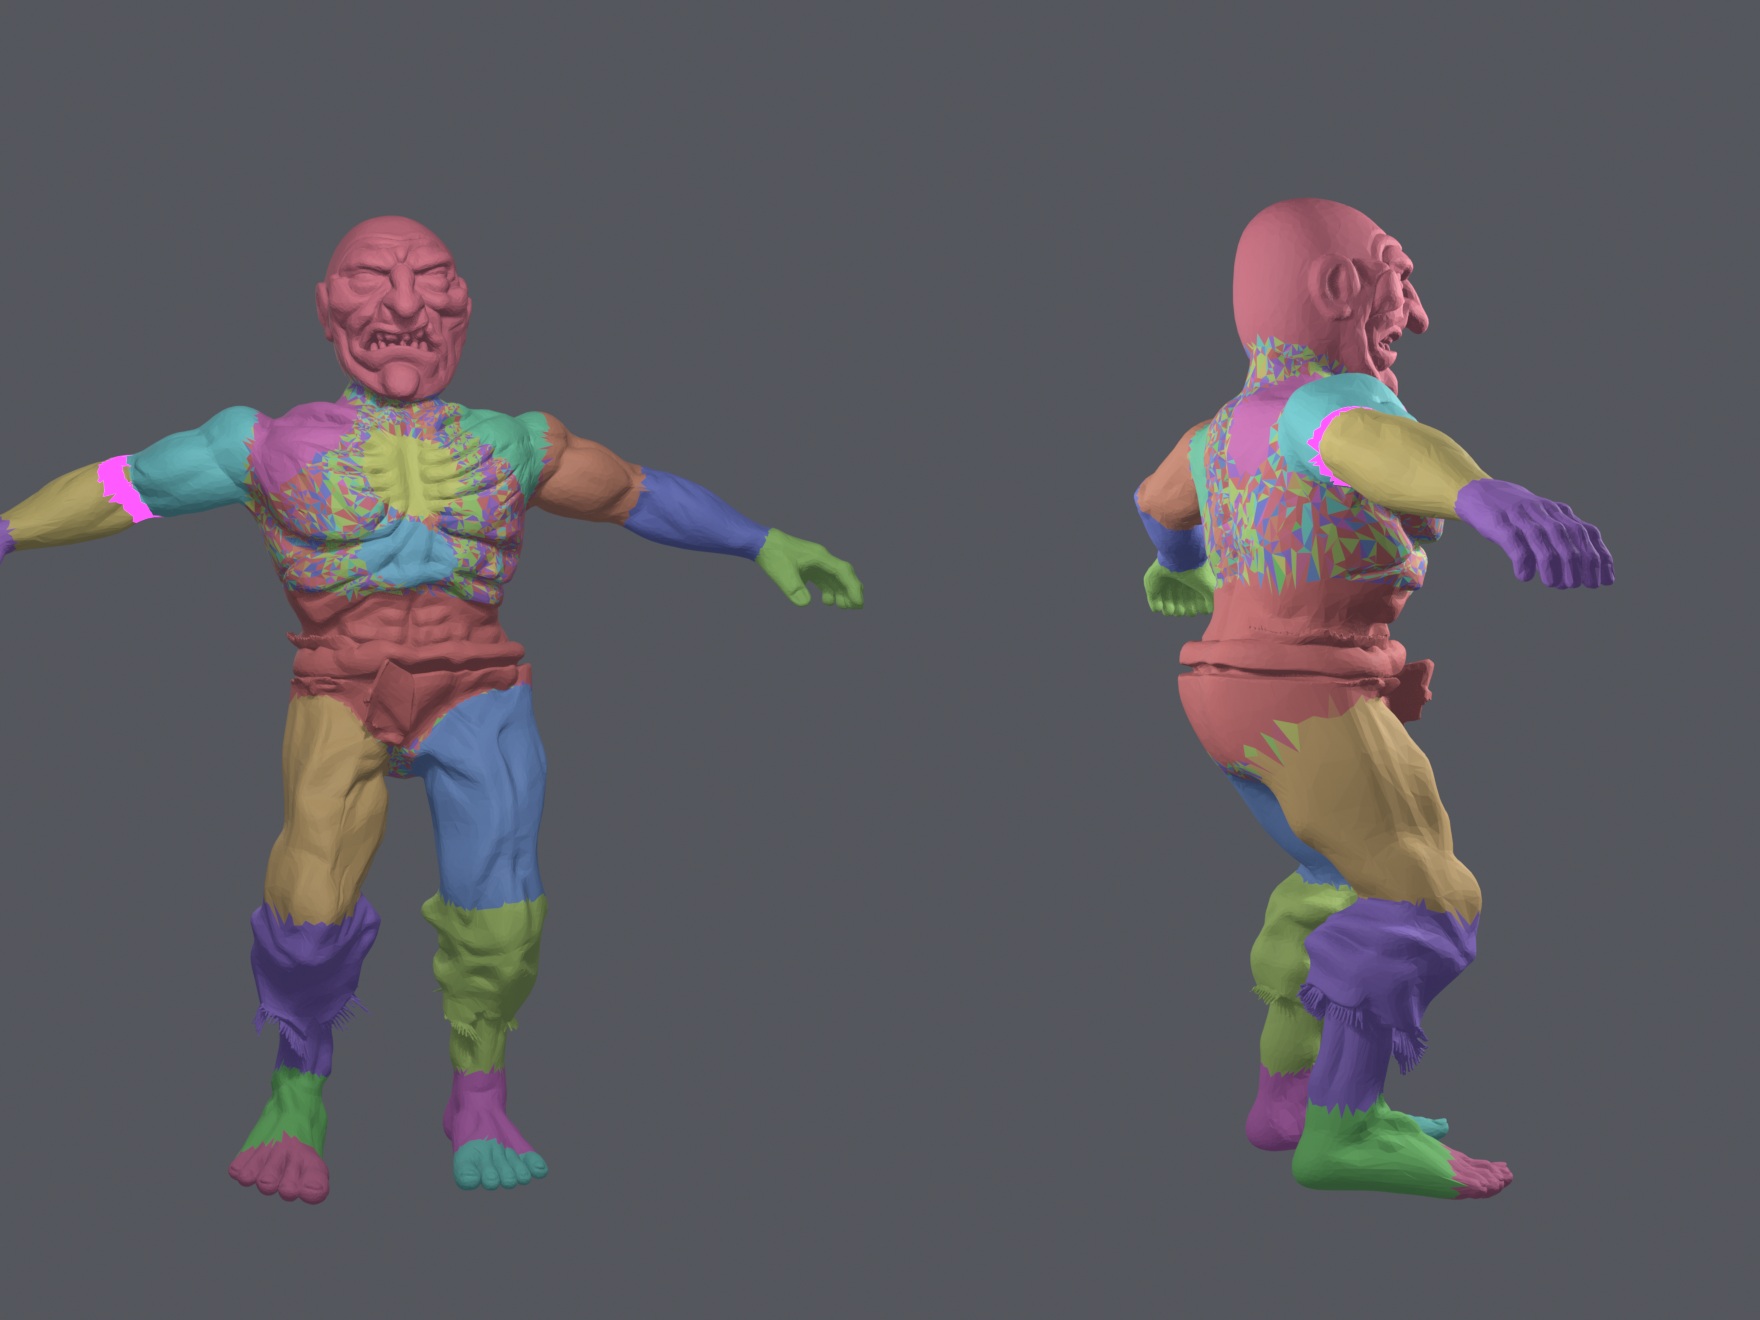
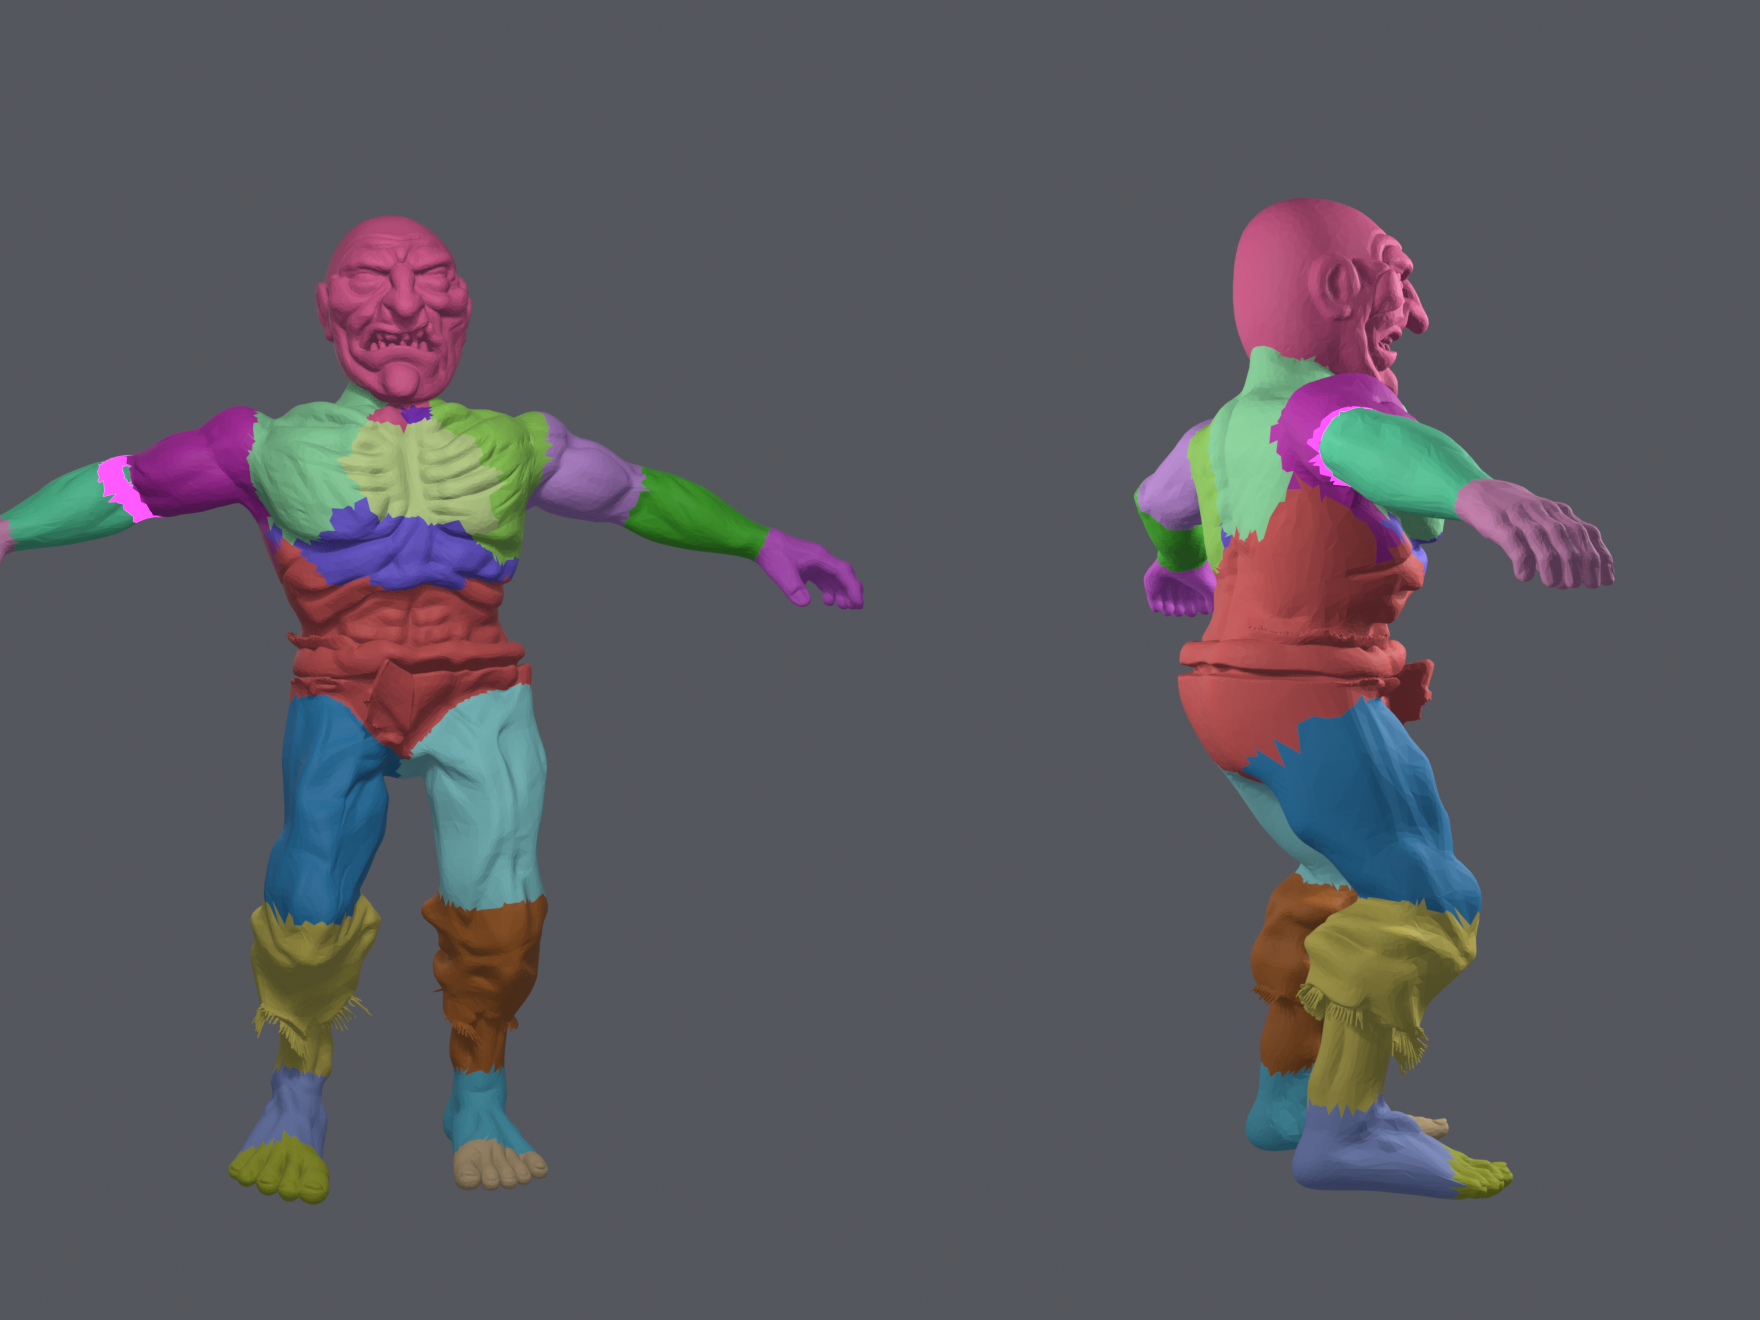
fix(humanoid-sdf): pair edges with the right faces
_edge_adjacency stacked the three edge slots as blocks via np.concatenate but
mapped them back with np.repeat, which assumes an interleaved layout. Two
triangles sharing an edge returned (face 0, face 0); on the canonical humanoid
only 2 of the first 4000 reported pairs genuinely shared an edge, so the
weak-face flood fill (8620 of 98003 faces) voted on unrelated geometry.

- np.tile, plus EdgeAdjacencyTest covering the two-triangle and closed
  octahedron cases (no self-pairs, every pair shares an edge, graph connected)
- adjacent faces with differing owners 7.48% -> 0.68%; chest 16.77% -> 1.15%;
  RightForeArm owned-face bbox 0.563x0.815x0.686 m -> 0.165x0.292x0.131 m and
  its 168 out-of-bounds faces -> 0
- partition bind bounds are weight-derived and did NOT move, so the humanoid
  intersection stays byte-identical at f32 aa74bd27004a
- _partition_palette: even hue spacing over a known n beats the golden angle
  (22 partitions collapsed to a 7.7 deg gap); min RGB separation 23 -> 56
- regenerate source-report.json and partition-preview.png

diff --git a/scripts/bake_humanoid_sdf.py b/scripts/bake_humanoid_sdf.py
@@ -574,7 +574,12 @@ def _edge_adjacency(faces: npt.NDArray[np.integer]
     keys = np.sort(edges, axis=1)
     order = np.lexsort((keys[:, 1], keys[:, 0]))
     keys = keys[order]
-    rows = np.repeat(np.arange(len(f), dtype=np.int64), 3)[order]
+    # np.tile, NOT np.repeat: concatenate stacks the three edge slots as
+    # BLOCKS ([all 0-1], [all 1-2], [all 2-0]), so entry i belongs to face
+    # i % F. np.repeat assumes an interleaved layout and mislabels almost
+    # every edge -- measured on this source, only 2 of the first 4,000 pairs
+    # genuinely shared an edge, which fed the weak-face flood fill noise.
+    rows = np.tile(np.arange(len(f), dtype=np.int64), 3)[order]
     same = (keys[1:] == keys[:-1]).all(axis=1)
     return rows[:-1][same], rows[1:][same]
 
@@ -1538,12 +1543,28 @@ def _check_report_gates(report: dict) -> None:
 
 
 def _partition_palette(n: int) -> npt.NDArray[np.uint8]:
-    """Deterministic golden-angle HSV palette, one distinct color/partition."""
+    """Deterministic HSV palette, one readably distinct color per partition.
+
+    Golden-angle hue stepping is the right choice when n is unknown, but n is
+    known here and the angle is WORSE than even spacing for a fixed count: at
+    22 partitions it collapsed the minimum gap to 7.7 deg (Hips vs Head both
+    read dusty red; RightHand vs RightLeg both read purple, 12.4 deg apart).
+    Space hues evenly instead, interleave the ring so neighbouring partition
+    rows are never adjacent hues, and modulate saturation/value on a 3-cycle
+    so even a residual hue clash separates by lightness.
+    """
     import colorsys
     out = np.zeros((n, 3), dtype=np.uint8)
+    if n <= 0:
+        return out
+    half = (n + 1) // 2
     for i in range(n):
-        r, g, b = colorsys.hsv_to_rgb((i * 0.618033988749895) % 1.0,
-                                      0.72, 0.95)
+        # interleave: 0, half, 1, half+1, ... keeps consecutive rows apart
+        slot = (i % 2) * half + i // 2
+        hue = (slot / float(n)) % 1.0
+        saturation = (0.85, 0.62, 0.95)[i % 3]
+        value = (0.95, 0.99, 0.72)[i % 3]
+        r, g, b = colorsys.hsv_to_rgb(hue, saturation, value)
         out[i] = (int(r * 255), int(g * 255), int(b * 255))
     return out
 

diff --git a/scripts/test_bake_humanoid_sdf.py b/scripts/test_bake_humanoid_sdf.py
@@ -355,5 +355,45 @@ class DerivePartitionsTest(unittest.TestCase):
             self.assertEqual(p.pitch_m, BAKE.LIMB_PITCH_M)
 
 
+class EdgeAdjacencyTest(unittest.TestCase):
+    """The weak-face flood fill is only as good as this adjacency."""
+
+    def test_two_triangles_sharing_an_edge_pair_with_each_other(self) -> None:
+        faces = np.array([[0, 1, 2], [1, 2, 3]], dtype=np.int64)
+        fa, fb = BAKE._edge_adjacency(faces)
+        self.assertEqual(len(fa), 1)
+        self.assertEqual({int(fa[0]), int(fb[0])}, {0, 1},
+                         "a shared edge must pair the two DIFFERENT faces")
+
+    def test_every_reported_pair_actually_shares_an_edge(self) -> None:
+        # closed octahedron: 6 vertices, 8 faces, 12 edges, each interior
+        verts = np.array([[1, 0, 0], [-1, 0, 0], [0, 1, 0],
+                          [0, -1, 0], [0, 0, 1], [0, 0, -1]], dtype=np.float64)
+        faces = np.array([
+            [0, 2, 4], [2, 1, 4], [1, 3, 4], [3, 0, 4],
+            [2, 0, 5], [1, 2, 5], [3, 1, 5], [0, 3, 5],
+        ], dtype=np.int64)
+        fa, fb = BAKE._edge_adjacency(faces)
+        self.assertEqual(len(fa), 12, "a closed octahedron has 12 shared edges")
+        self.assertEqual(int((fa == fb).sum()), 0, "no face may pair with itself")
+        for a, b in zip(fa, fb):
+            shared = set(faces[int(a)].tolist()) & set(faces[int(b)].tolist())
+            self.assertGreaterEqual(
+                len(shared), 2, f"faces {int(a)},{int(b)} do not share an edge")
+        # every face must reach every other face through the adjacency graph
+        seen, stack = {0}, [0]
+        neighbours: dict[int, list[int]] = {i: [] for i in range(len(faces))}
+        for a, b in zip(fa, fb):
+            neighbours[int(a)].append(int(b))
+            neighbours[int(b)].append(int(a))
+        while stack:
+            for nxt in neighbours[stack.pop()]:
+                if nxt not in seen:
+                    seen.add(nxt)
+                    stack.append(nxt)
+        self.assertEqual(len(seen), len(faces), "adjacency graph is disconnected")
+
+
+
 if __name__ == "__main__":
     unittest.main(verbosity=2)

diff --git a/docs/dev-notes/2026-08-18-blender-sdf-grid/adapter-notes.md b/docs/dev-notes/2026-08-18-blender-sdf-grid/adapter-notes.md
@@ -101,6 +101,82 @@ linear interpolation. An epsilon-on-distance test with a step floor is wrong on
 a discrete grid: the floor overrides `step <= |d|`, and rays jump the surface
 (measured: 2,585 rays passed within one voxel and never registered).
 
+## Finding (FIXED): `_edge_adjacency` mislabelled almost every face pair
+
+Sizing the forearm support from faces owned by `RightForeArm` originally
+produced a **body-sized** box (0.60 x 0.43 x 0.73 m) that swallowed 11,872
+`Hips` faces, the head and both legs, plus 168 stray owned faces sitting ~0.5 m
+away in bind-local metres.
+
+Root cause, in `scripts/bake_humanoid_sdf.py::_edge_adjacency`:
+
+```python
+edges = np.concatenate([f[:, [0, 1]], f[:, [1, 2]], f[:, [2, 0]]])   # BLOCKS
+rows  = np.repeat(np.arange(len(f)), 3)[order]                       # interleaved!
+```
+
+`concatenate` stacks the three edge slots as blocks, so entry `i` belongs to
+face `i % F` — `np.tile`, not `np.repeat`. Two triangles sharing an edge came
+back as `(face 0, face 0)`, a self-pair. On the real mesh only **2 of the first
+4,000** reported pairs genuinely shared an edge. The weak-face flood fill
+(8,620 of 98,003 faces, resolved by "strongest ADJACENT partition") was voting
+on essentially random faces.
+
+Fixed to `np.tile`, with an octahedron/two-triangle regression test in
+`scripts/test_bake_humanoid_sdf.py::EdgeAdjacencyTest`:
+
+| Metric | Before | After |
+| --- | ---: | ---: |
+| Adjacent faces with different owners | 7.48 % | **0.68 %** |
+| Chest adjacent-pair disagreement | 16.77 % | **1.15 %** |
+| `RightForeArm` owned-face bbox | 0.563 x 0.815 x 0.686 m | **0.165 x 0.292 x 0.131 m** |
+| `RightForeArm` faces outside its bind bounds | 168 | **0** |
+| `isolatedFacesAssignedByOwnWeight` | 16 | 447 (real islands now found) |
+
+`partition-preview.png` before/after shows it plainly: the speckled chest
+mosaic becomes clean anatomical regions. The partition **bind** bounds
+(`coverage.partitions[].boundsLocalMin/Max`) never moved, because they come
+from the weight-bound vertex mask rather than face ownership — which is why
+the humanoid intersection's f32 hash is unchanged at `aa74bd27004a` across the
+fix, and why `partition_bind_bounds()` was the stable thing to size from.
+
+**Keep sizing support volumes from `partition_bind_bounds()`.** It is now
+belt-and-braces rather than a workaround, and `stray_owned_faces()` stays in
+the report as a regression tripwire (it must read 0).
+
+The preview palette was fixed in the same pass: golden-angle hue stepping is
+right for unknown n but worse than even spacing for a fixed count, and at 22
+partitions it collapsed to a 7.7 deg minimum gap (Hips vs Head both dusty red;
+RightHand vs RightLeg both purple, 12.4 deg apart). Even spacing with an
+interleaved ring and a 3-cycle saturation/value modulation raises the minimum
+RGB separation from 23 to 56.
+
+## Note: the source sculpt is not bilaterally symmetric
+
+Only **2.5 %** of vertices have a mirror twin within 1 mm of the x midplane
+(median mirror distance 7.6 mm, p90 25 mm, max 80 mm) — the zombie is a hand
+sculpt with independent left/right topology. Where a twin does exist, weights
+mirror within 0.01 for 87.4 % of them, and **97.5 %** of mirrored faces get the
+mirrored partition; the 342 mismatches all sit on region boundaries
+(ForeArm/Hand, Shoulder/Spine01). Left/right partitions are also distinct
+bones, so they carry distinct hues by design. Visible left/right differences in
+the preview are the asset, not the partitioner.
+
+## Previews
+
+There is no runtime humanoid page yet (Tasks 2-7 of the sever spike), so
+`scripts/preview_adapter_fields.py` CPU sphere-traces the dense fields:
+
+- `preview-humanoid-forearm.png` / `-slices.png` — a solid forearm with visible
+  musculature and flat cut caps where the closed support box clipped it.
+- `preview-hand-union.png` / `-slices.png` — the solid wrist box and the hand's
+  hollow shell, i.e. the finding above.
+
+The tracer lands on the first positive->non-positive **sign change**, refined by
+linear interpolation. An epsilon-on-distance test with a step floor is wrong on
+a discrete grid: the floor overrides `step <= |d|`, and rays jump the surface
+(measured: 2,585 rays passed within one voxel and never registered).
+
 ## Finding: `face_owners` flood-fill contaminates owned-face AABBs
 
 Sizing the forearm support volume from faces owned by `RightForeArm` produced a

diff --git a/TASKS.md b/TASKS.md
@@ -211,7 +211,12 @@ Key reference docs (open these before touching their area):
   hand soup keeps 66 boundary edges after welding and contributed only 302 of
   the union's 38,702 negative voxels (the closed wrist box supplied the rest).
   Judge closedness with `SDF.welded_mesh_info()`, never raw indexed boundary
-  edges. Chisel 4.0.1 was evaluated and stays OPTIONAL development-only
+  edges. Also fixed a real defect in humanoid Task 1: `_edge_adjacency` used
+  `np.repeat` on block-stacked edges, so only 2 of every 4,000 reported face
+  pairs actually shared an edge and the weak-face flood fill voted on noise
+  (chest partition mosaic; 168 stray `RightForeArm` faces). `np.tile` + a
+  regression test; partition bind bounds and the humanoid f32 hash are
+  unchanged. Chisel 4.0.1 was evaluated and stays OPTIONAL development-only
   authoring/diagnostic tooling, never a production dependency. 48 grid + 17
   qualifier + 20 humanoid Python tests, 1516 Vitest and the production build
   pass.
